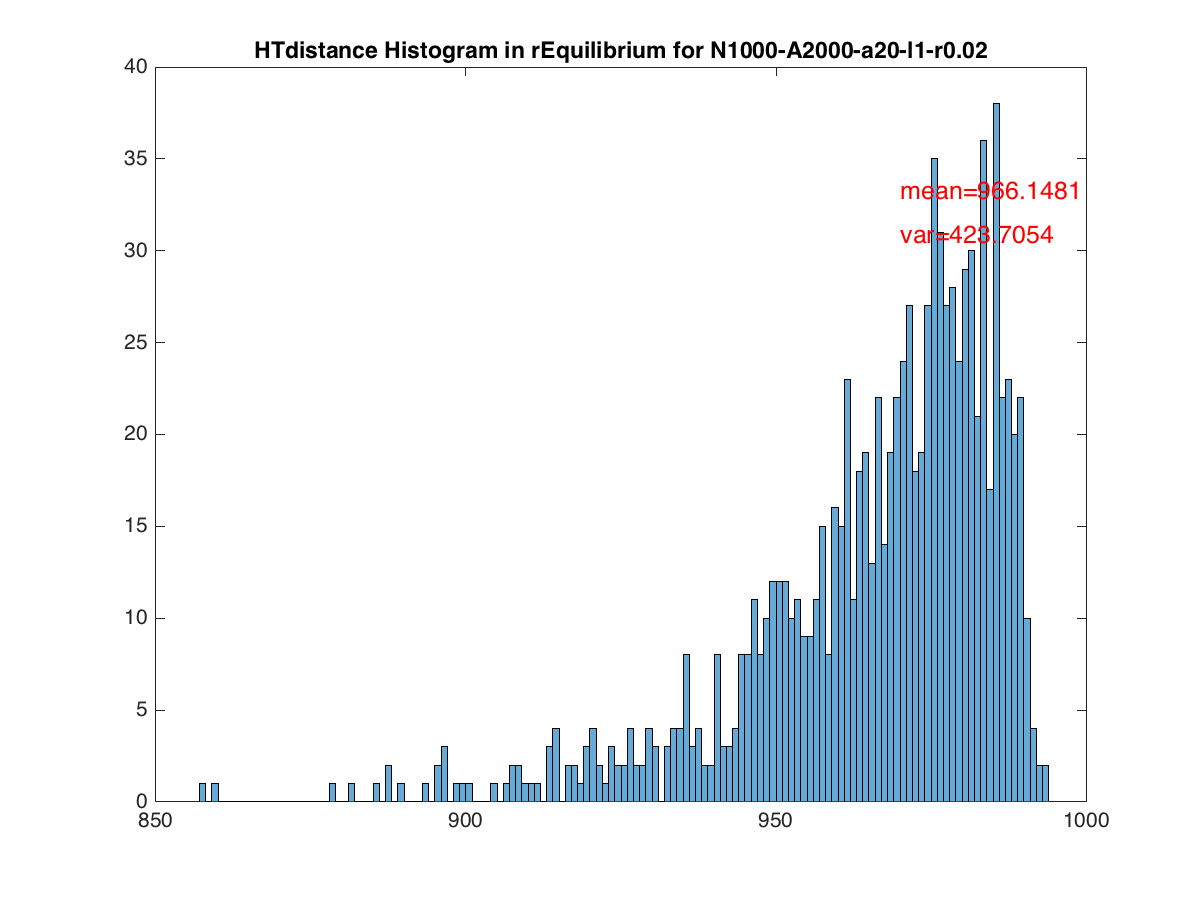
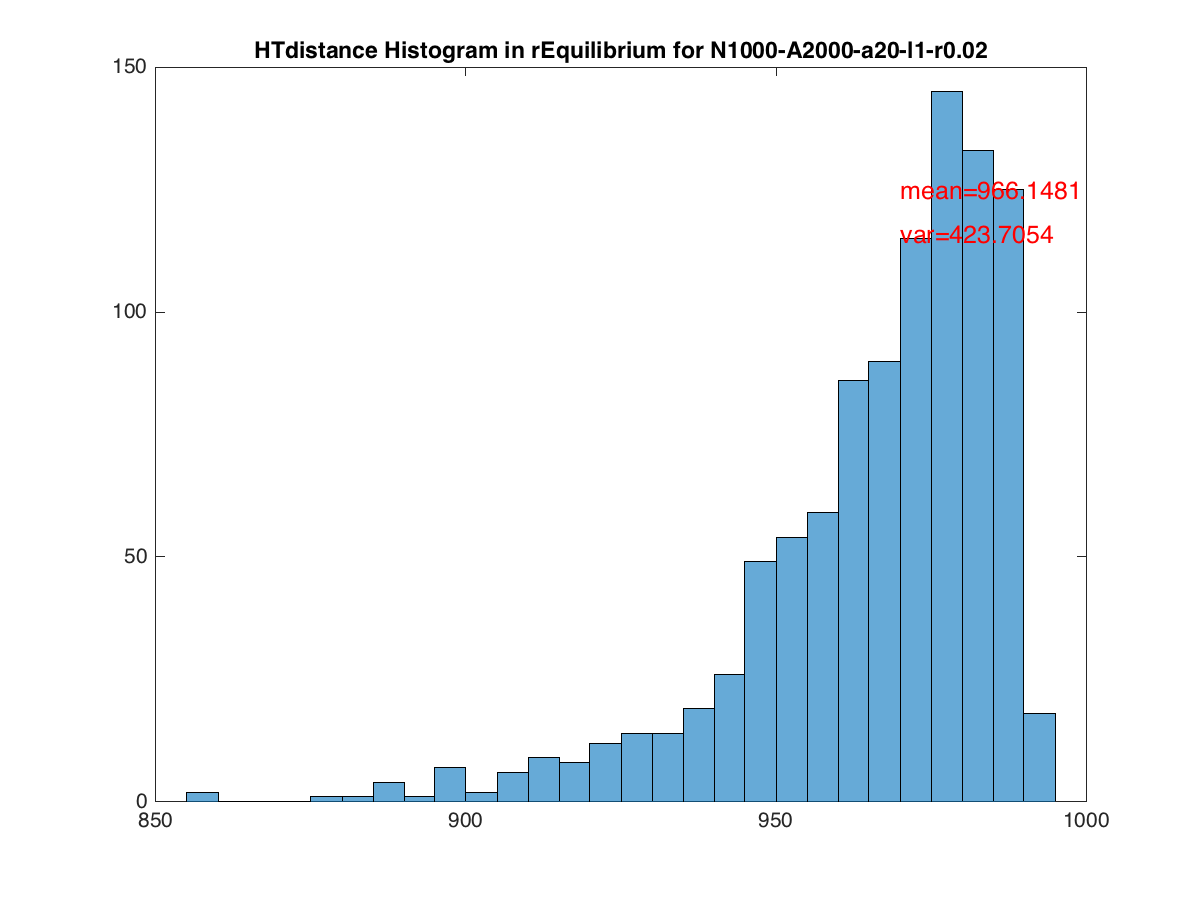
update code

diff --git a/BL_hist_reader.m b/BL_hist_reader.m
@@ -29,7 +29,7 @@ close gcf;
 
 pDf = dlmread(strcat(path,'rEquil-D-N1000-t2000-a20-l1-r0.02.txt'));
 fig2 = figure;
-histogram(pDf, 'BinWidth', 1);
+histogram(pDf, 'BinWidth', 5);
 title('HTdistance Histogram in rEquilibrium for N1000-A2000-a20-l1-r0.02');
 xc = xlim;
 xl = xc(1)*0.2+xc(2)*0.8;
@@ -40,7 +40,7 @@ text(xl,yl1,strcat('mean=',num2str(mean(pDf))),'Color','red','FontSize',12);
 text(xl,yl2,strcat('var=',num2str(var(pDf))),'Color','red','FontSize',12);
 filename = strcat(path,'rEquil-D-Hist-N1000-t2000-a20-l1-r0.02.png');
 saveas(gcf, filename,'png');
-close gcf;
+% close gcf;
 
 %% rAuto
 
